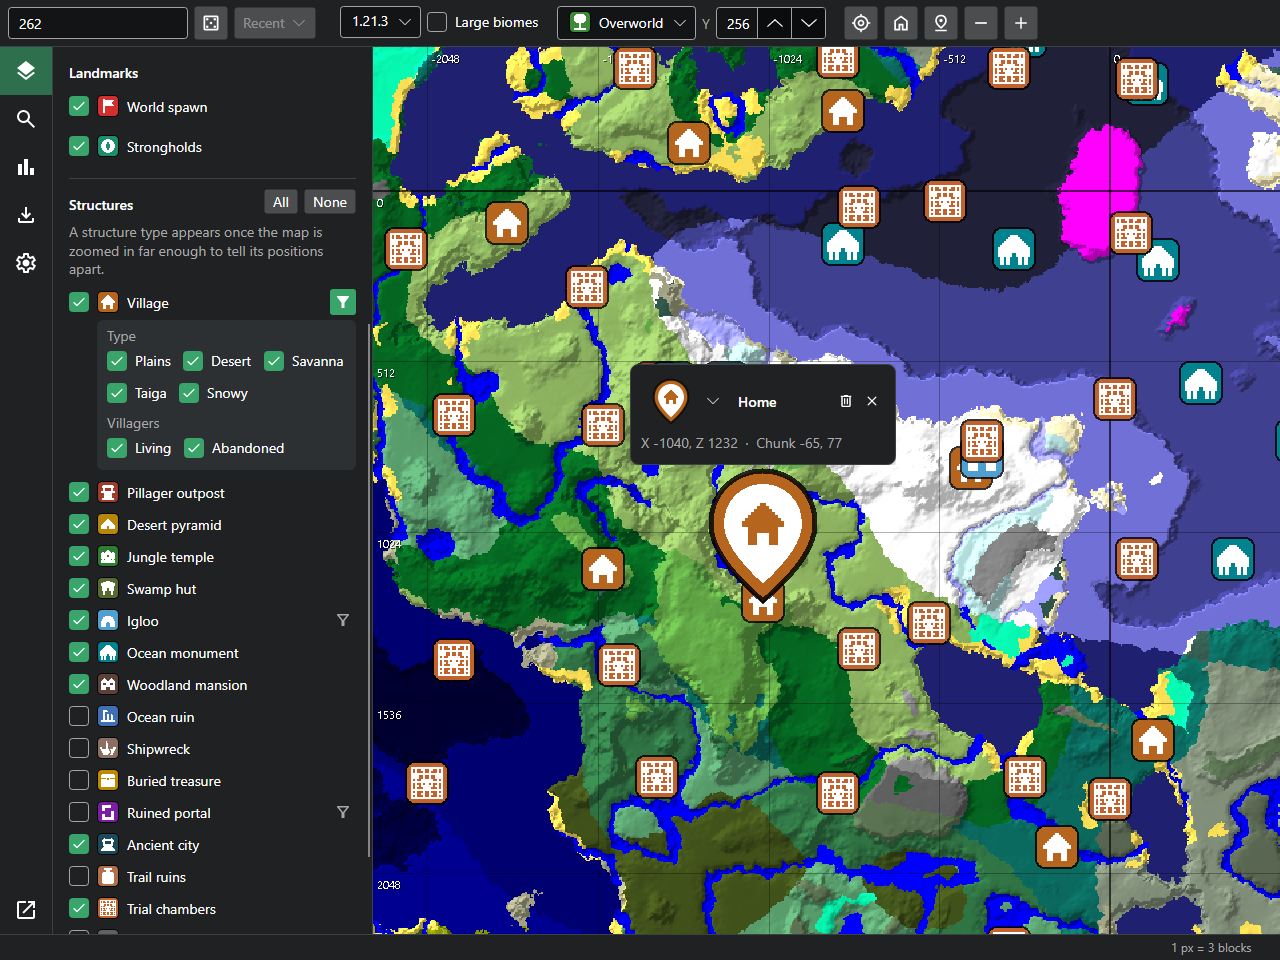
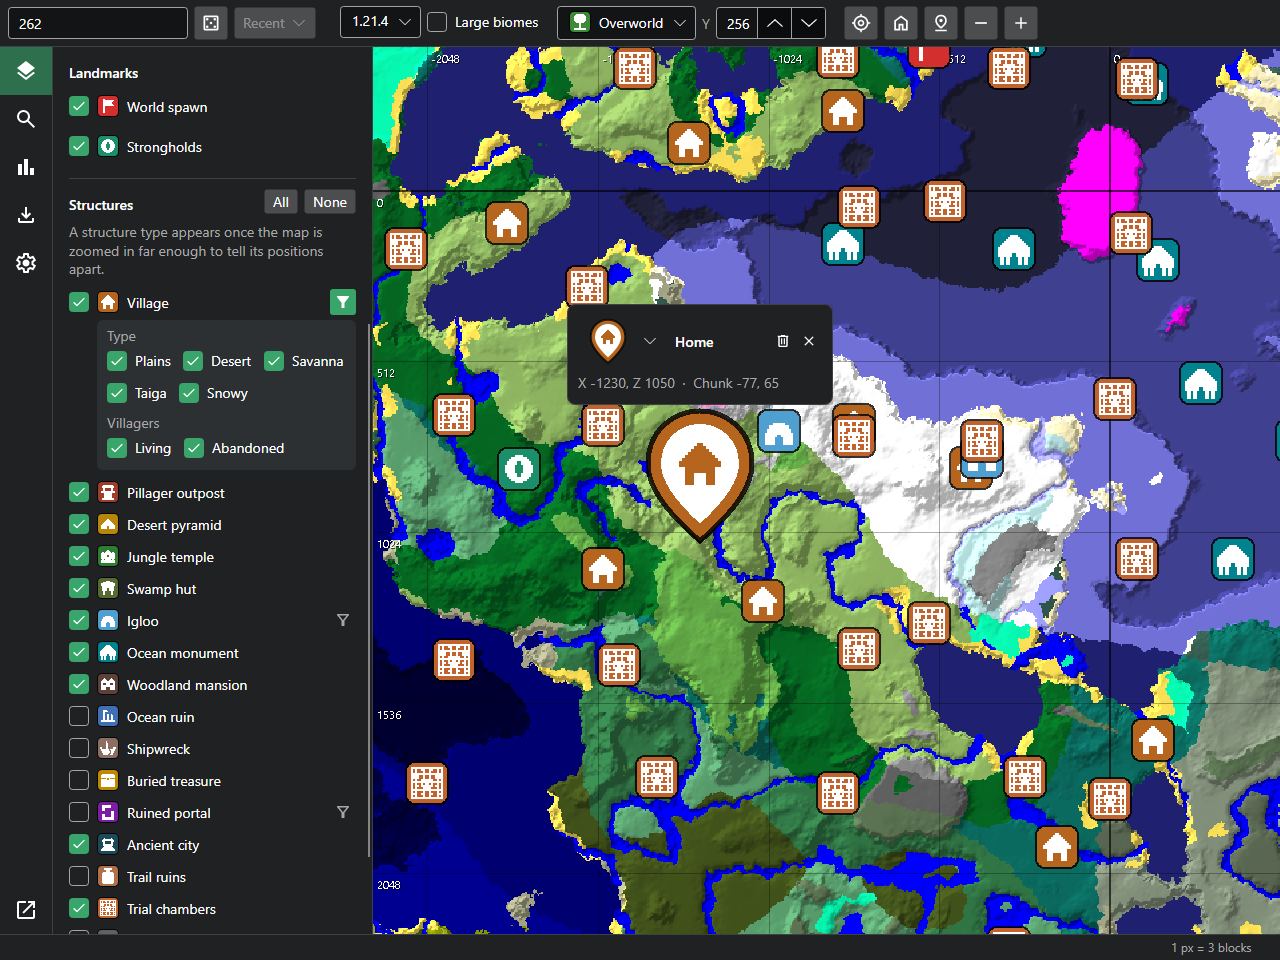
Show 1.21.4 in the README screenshot, with the Home pin on open ground
The screenshot now shows 1.21.4, the newest version, and the Home pin
stands beside a river instead of on a village.

Changed region(s): [[0.4375, 0.3125, 0.7188, 0.625], [0.375, 0.4688, 0.4375, 0.5312], [0.6875, 0.0312, 0.75, 0.0938]]

diff --git a/README.md b/README.md
@@ -2,7 +2,7 @@
 
 A cross-platform Minecraft Java Edition seed finder and biome map viewer, built on top of the [cubiomes](https://github.com/Cubitect/cubiomes) world-generation library.
 
-![Cubiomes Viewer showing the structure types and the village filter in the Layers panel, next to the shaded biome map of seed 262 with a pin named Home on a village](docs/screenshot.png)
+![Cubiomes Viewer showing the structure types and the village filter in the Layers panel, next to the shaded 1.21.4 biome map of seed 262 with a pin named Home beside a river](docs/screenshot.png)
 
 [Open the web version](https://der-floh.github.io/Cubiomes-Viewer) · [Download for Windows, Linux or macOS](https://github.com/Der-Floh/Cubiomes-Viewer/releases)
 
